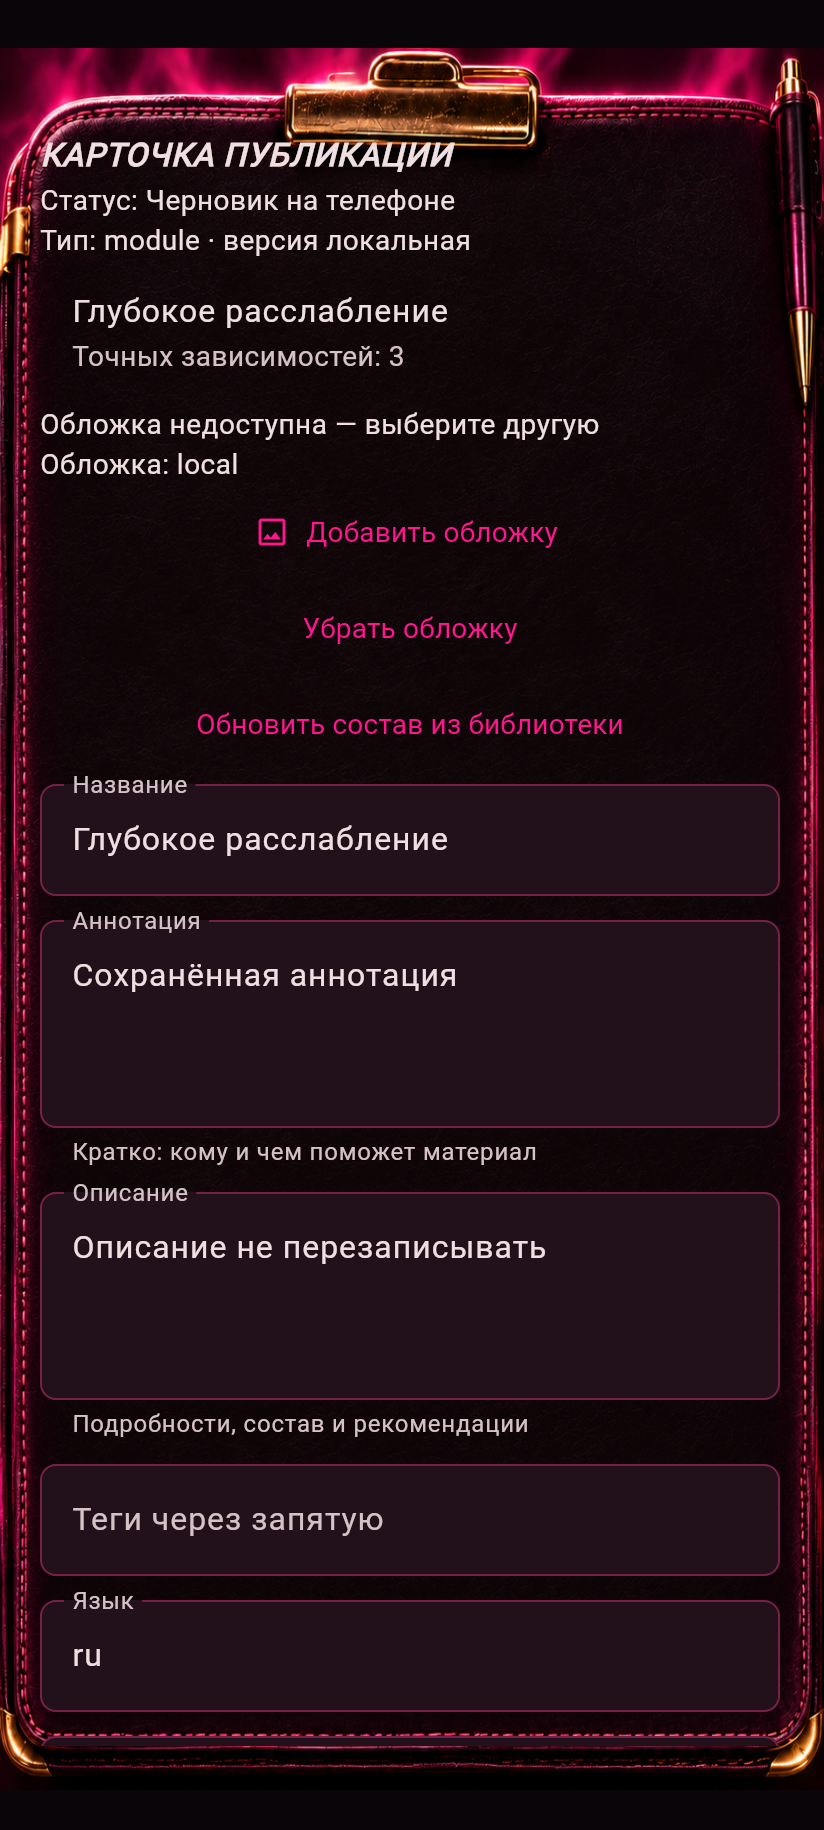
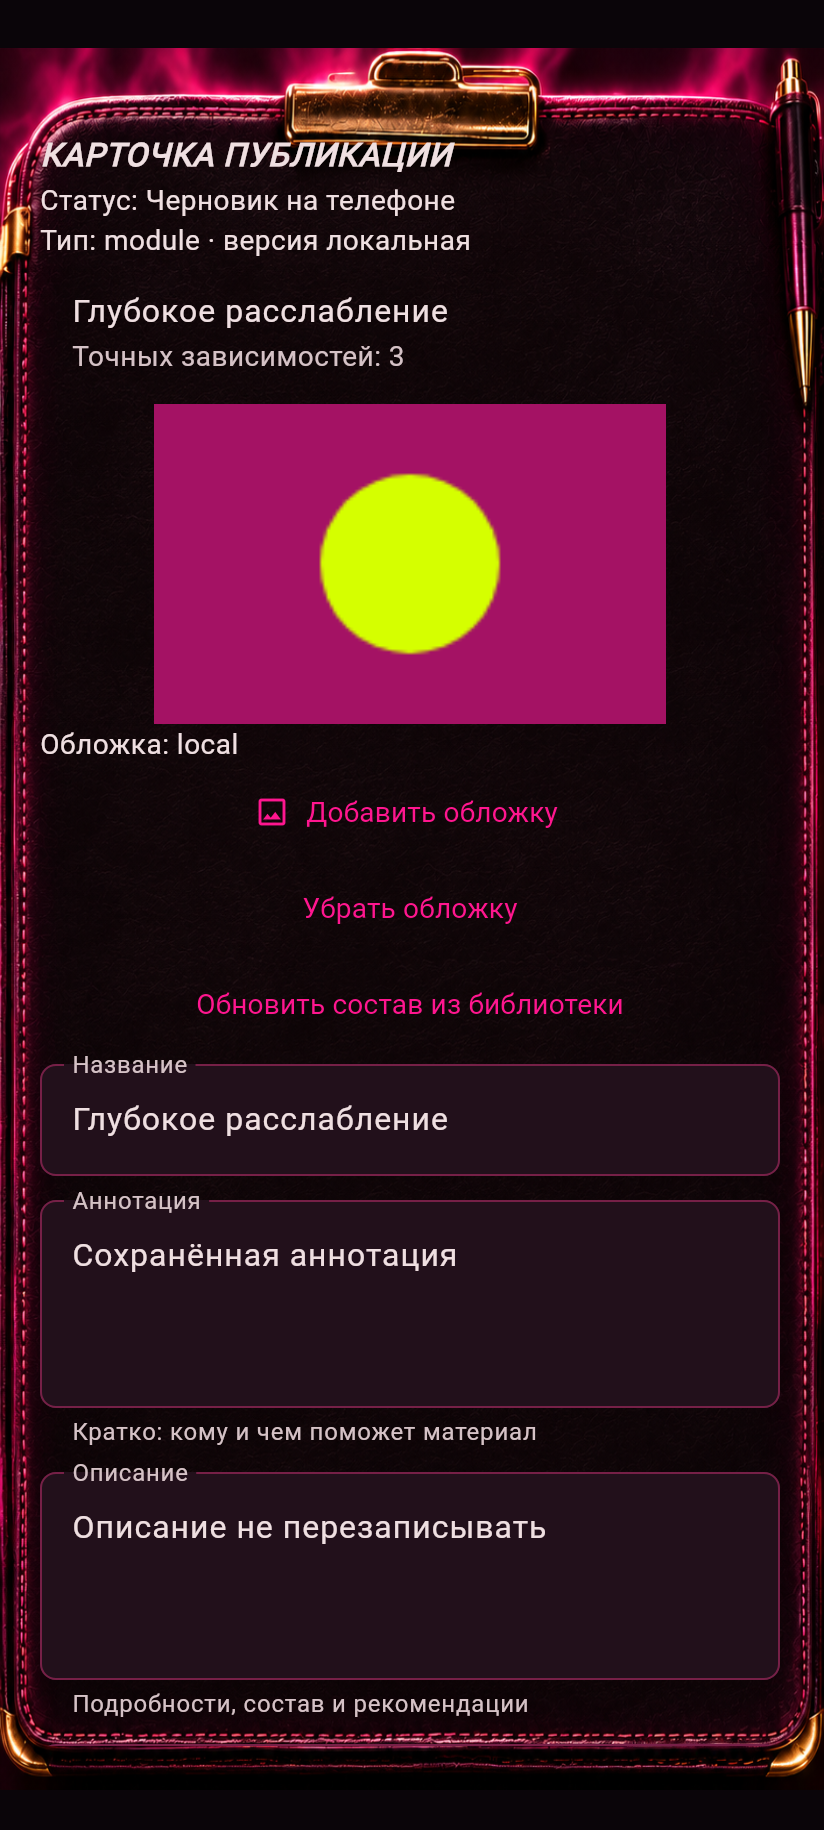
test(task16b): verify decoded cover preview and task-scoped queue diagnostics

Changed region(s): [[0.0607, 0.218, 0.8192, 0.7164], [0.091, 0.7475, 0.6675, 0.841], [0.0607, 0.8721, 0.9405, 0.9656]]

diff --git a/lib/ui/alchemist_catalog_screen.dart b/lib/ui/alchemist_catalog_screen.dart
@@ -144,6 +144,14 @@ class _CatalogCardEditorState extends State<CatalogCardEditor> {
       draft['card'] = card;
       await widget.service.save(draft);
       if (publish) {
+        if ((card['title'] as String).trim().isEmpty ||
+            (card['shortAnnotation'] as String).trim().isEmpty) {
+          throw const AlchemistFailure(
+            'Заполните название и аннотацию.',
+            422,
+            'METADATA_REQUIRED',
+          );
+        }
         await widget.service.controller.cloudQueue.enqueue(
           'alchemist_card:${draft['catalogItemId']}',
         );
@@ -339,16 +347,27 @@ class _CatalogCardEditorState extends State<CatalogCardEditor> {
                     ),
                   ),
               if (draft['localCover'] is Map)
-                Image.file(
-                  widget.service.controller.diary!.mediaStore!.file(
-                    DiaryMedia.fromMap(
-                      Map<String, dynamic>.from(draft['localCover']),
-                    ),
-                  )!,
-                  height: 160,
-                  fit: BoxFit.contain,
-                  errorBuilder: (_, _, _) =>
-                      const Text('Обложка недоступна — выберите другую'),
+                Builder(
+                  builder: (context) {
+                    File? file;
+                    try {
+                      file = widget.service.controller.diary?.mediaStore?.file(
+                        DiaryMedia.fromMap(
+                          Map<String, dynamic>.from(draft['localCover']),
+                        ),
+                      );
+                    } catch (_) {}
+                    return file == null
+                        ? const Text('Обложка недоступна — выберите другую')
+                        : Image.file(
+                            file,
+                            height: 160,
+                            fit: BoxFit.contain,
+                            errorBuilder: (_, _, _) => const Text(
+                              'Обложка недоступна — выберите другую',
+                            ),
+                          );
+                  },
                 ),
               if (draft['coverStatus'] != null)
                 Text('Обложка: ${draft['coverStatus']}'),

diff --git a/test/task16b_queue_catalog_test.dart b/test/task16b_queue_catalog_test.dart
@@ -1,3 +1,4 @@
+import 'dart:ui' as ui;
 import 'dart:async';
 import 'dart:convert';
 import 'dart:io';
@@ -222,11 +223,23 @@ void main() {
           d['card']['categoryIds'] = ['Старая категория'];
           await diary.mediaStore!.directory.create(recursive: true);
           final image = File('${diary.mediaStore!.directory.path}/fixture.png');
-          await image.writeAsBytes(
-            base64Decode(
[1 lines of base64/hex data omitted]
-            ),
+          final recorder = ui.PictureRecorder();
+          final canvas = ui.Canvas(recorder);
+          canvas.drawRect(
+            const ui.Rect.fromLTWH(0, 0, 160, 100),
+            ui.Paint()..color = const Color(0xffa41264),
           );
+          canvas.drawCircle(
+            const ui.Offset(80, 50),
+            28,
+            ui.Paint()..color = const Color(0xffd5ff00),
+          );
+          final picture = recorder.endRecording(),
+              pngImage = await picture.toImage(160, 100);
+          final png = await pngImage.toByteData(format: ui.ImageByteFormat.png);
+          await image.writeAsBytes(png!.buffer.asUint8List());
+          pngImage.dispose();
+          picture.dispose();
           d['localCover'] = DiaryMedia(
             assetId: 'cover-fixture',
             mime: 'image/png',
@@ -255,12 +268,15 @@ void main() {
         expect(find.byType(Image), findsWidgets);
         expect(find.text('Сохранённая аннотация'), findsOneWidget);
         expect(find.text('Обложка: local'), findsOneWidget);
+        expect(find.text('Обложка недоступна — выберите другую'), findsNothing);
         await capture15(t, 'task16b-cover-local');
         await t.scrollUntilVisible(
           find.textContaining('Категории:'),
           300,
           scrollable: find.byType(Scrollable).first,
         );
+        await t.drag(find.byType(ListView).first, const Offset(0, -180));
+        await io15(t);
         await t.tap(find.textContaining('Категории:'));
         await io15(t);
         expect(find.text('Старая категория'), findsOneWidget);

diff --git a/lib/services/alchemist_work_queue.dart b/lib/services/alchemist_work_queue.dart
@@ -197,7 +197,11 @@ class AlchemistWorkQueue extends ChangeNotifier {
         final retries = <String, int>{};
         void diagnostic() {
           final event = AlchemistDiagnostics.instance.events.lastOrNull;
-          if (event == null || stop()) return;
+          if (event == null ||
+              stop() ||
+              event['taskId'] != name.split(':').last) {
+            return;
+          }
           final trace = event['traceId'] as String,
               attempt = event['attempt'] as int;
           retries[trace] = attempt > (retries[trace] ?? 0)
@@ -212,19 +216,22 @@ class AlchemistWorkQueue extends ChangeNotifier {
         AlchemistDiagnostics.instance.addListener(diagnostic);
         try {
           final value = (await _read(name))!;
-          await send(
-            name,
-            value,
-            stop,
-            (stage) {
-              // Progress is serialized below; callbacks must not overwrite a card receipt.
-              if (!stop()) _recordProgress(name, {'stage': stage});
-            },
-            (n, total) {
-              if (!stop()) {
-                _recordProgress(name, {'bytes': n, 'totalBytes': total});
-              }
-            },
+          await runZoned(
+            () => send(
+              name,
+              value,
+              stop,
+              (stage) {
+                // Progress is serialized below; callbacks must not overwrite a card receipt.
+                if (!stop()) _recordProgress(name, {'stage': stage});
+              },
+              (n, total) {
+                if (!stop()) {
+                  _recordProgress(name, {'bytes': n, 'totalBytes': total});
+                }
+              },
+            ),
+            zoneValues: {#alchemistTask: name.split(':').last},
           );
           await _progress;
           await _patch(name, {

diff --git a/lib/ui/alchemist_sync_screen.dart b/lib/ui/alchemist_sync_screen.dart
@@ -35,7 +35,7 @@ class _AlchemistSyncScreenState extends State<AlchemistSyncScreen> {
                 child: ListView(
                   children: [
                     const Text(
-                      'При сворачивании передача ставится на паузу после текущего запроса. Для продолжения откройте приложение и нажмите «Продолжить». Исходники сохраняются.',
+                      'При сворачивании передача ставится на паузу после текущего запроса. Для продолжения откройте приложение и нажмите «Продолжить». Исходники сохраняются. Отмена очереди не снимает уже подтверждённую публикацию: используйте «Снять публикацию» в карточке.',
                     ),
                     for (final row in queue.rows)
                       Builder(

diff --git a/lib/services/alchemist_diagnostics.dart b/lib/services/alchemist_diagnostics.dart
@@ -1,3 +1,5 @@
+import 'dart:async';
+
 import 'package:flutter/foundation.dart';
 
 import '../models/session_plan.dart';
@@ -24,6 +26,9 @@ class AlchemistDiagnostics extends ChangeNotifier {
     }
     _events.add({
       'traceId': traceId,
+      if (Zone.current[#alchemistTask] case final String taskId
+          when RegExp(r'^[a-f0-9]{32}$').hasMatch(taskId))
+        'taskId': taskId,
       'operation': operation,
       'phase': phase,
       'elapsedMs': elapsedMs,

diff --git a/lib/ui/alchemist_queue_indicator.dart b/lib/ui/alchemist_queue_indicator.dart
@@ -25,6 +25,7 @@ class _AlchemistQueueIndicatorState extends State<AlchemistQueueIndicator>
   void initState() {
     super.initState();
     WidgetsBinding.instance.addObserver(this);
+    _lastOwner = widget.controller.catalog.api?.ownerBinding;
     widget.controller.policy.addListener(identityChanged);
     unawaited(widget.controller.cloudQueue.recover());
   }
